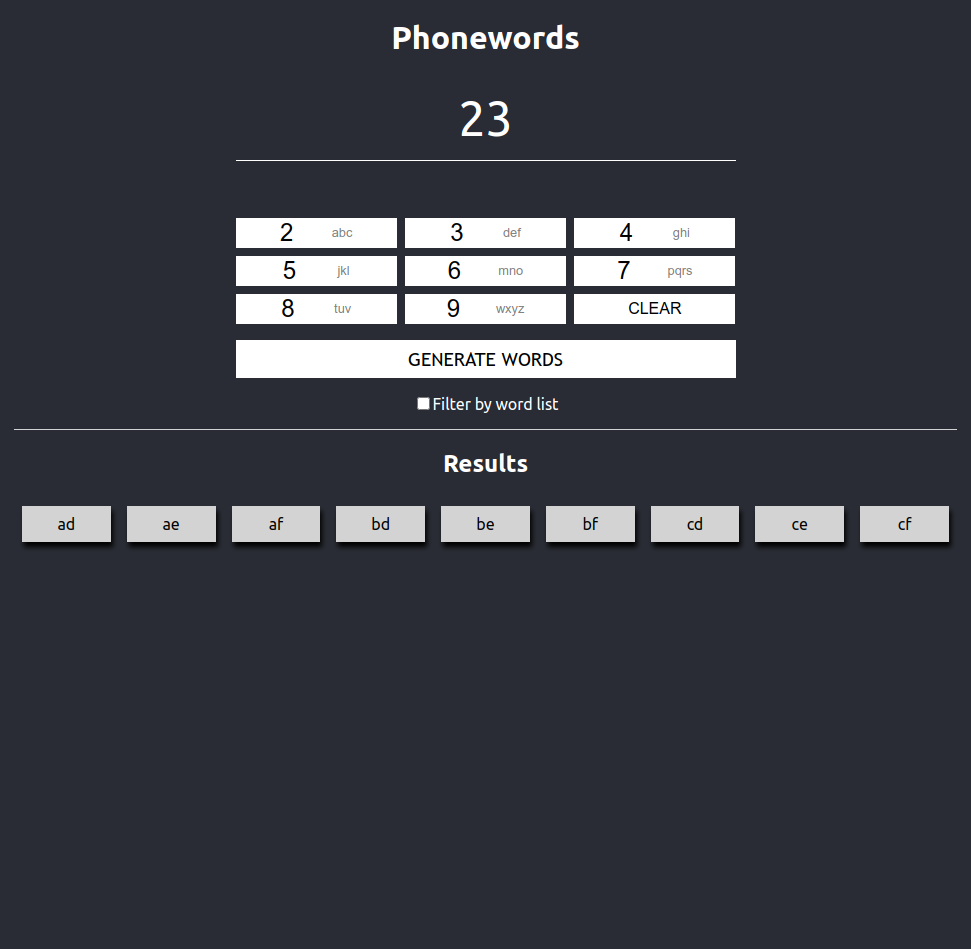
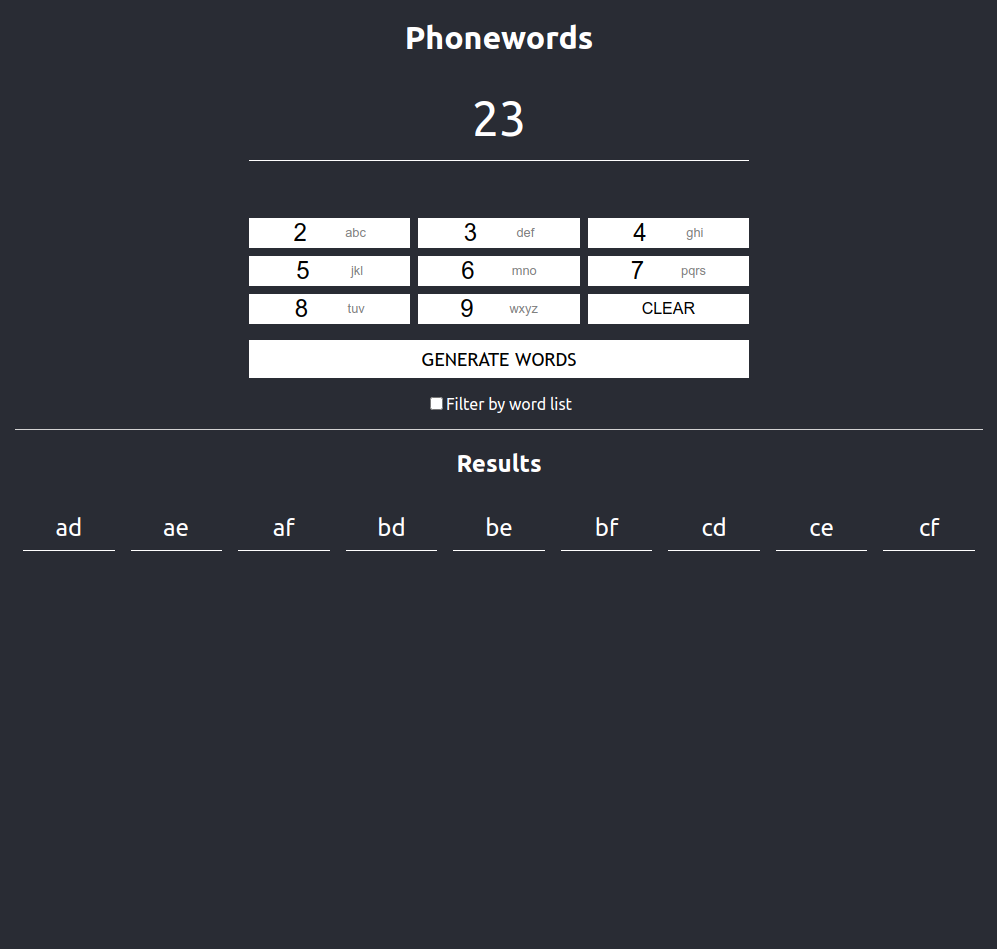
adjust Word styles

diff --git a/frontend/src/components/Word.module.css b/frontend/src/components/Word.module.css
@@ -4,8 +4,6 @@
   justify-content: center;
   padding: 0.5rem;
   margin: 0.5rem;
-  background-color: lightgrey;
-  color: black;
-  box-shadow: 2px 5px 5px black;
-  border: 1px solid lightgrey;
+  font-size: 1.5rem;
+  border-bottom: 1px solid white;
 }
